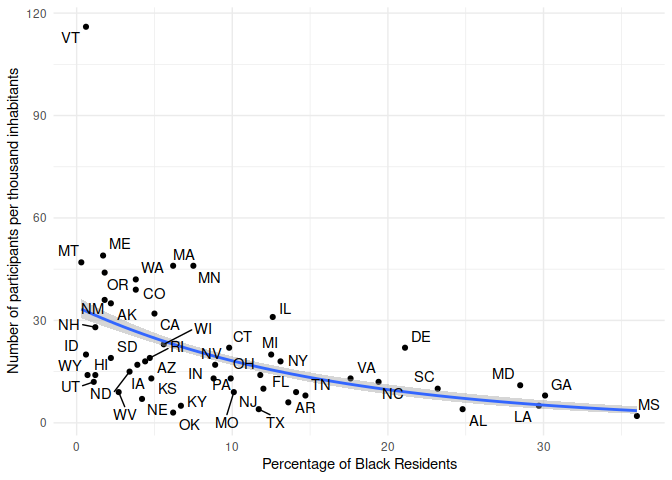
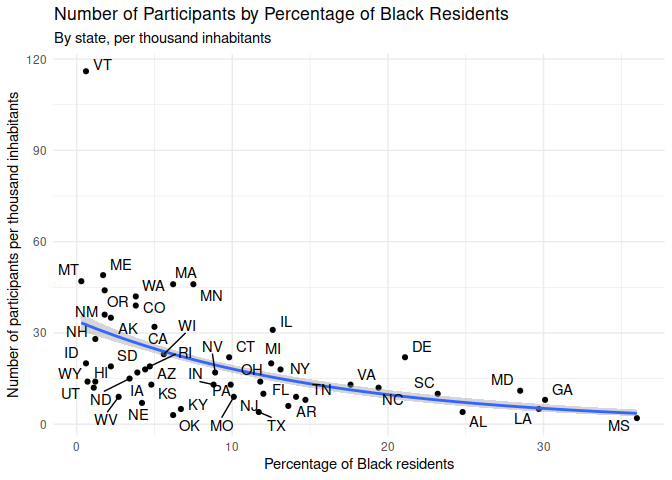
Fix labels and AMEs

diff --git a/README.md b/README.md
@@ -7,49 +7,49 @@ This project uses data from the Crowd Counting Consortium (CCC) to
 analyze protests against Trump in 2025 (from January 1st, 2025 to
 October 31st, 2025).
 
-## Protests over Time
+## Trends over Time
 
-![](README_files/figure-gfm/time-trend-1.png)<!-- -->
+### Figure 1
 
-## Bivariate Relationships
+![](README_files/figure-gfm/time-trend-events-1.png)<!-- -->
 
-### Support for Trump (%), 2024 presidential election
+### Figure 2
+
+![](README_files/figure-gfm/time-trend-part-1.png)<!-- -->
+
+### Figure 3
+
+![](README_files/figure-gfm/time-trend-violence-1.png)<!-- -->
+
+## Geography of the Protests: Bivariate Relationships
+
+### Figure 4
 
 ![](README_files/figure-gfm/trump-support-1.png)<!-- -->
 
-### Median Annual Household Income
+### Figure 5
 
 ![](README_files/figure-gfm/income-1.png)<!-- -->
 
-### Percentage of Black Residents
+### Figure 6
 
 ![](README_files/figure-gfm/black-1.png)<!-- -->
 
-### Percentage of Hispanic Residents
+### Figure 7
 
 ![](README_files/figure-gfm/hispanic-1.png)<!-- -->
 
-## Percentage of Noncitizen Residents
+### Figure 8
 
 ![](README_files/figure-gfm/non-citizens-1.png)<!-- -->
 
-## Governor Party
+### Figure 9
 
 ![](README_files/figure-gfm/gov-party-1.png)<!-- -->
 
-## Correlation Matrix
+## Geography of the Protests: Multivariate Analysis
 
-|  | n_part_pop | pct_trump | income | black | hispanic | non_citizens | republican_gov |
-|----|----|----|----|----|----|----|----|
-| n_part_pop | 1 | . | . | . | . | . | . |
-| pct_trump | -.57 | 1 | . | . | . | . | . |
-| income | .33 | -.70 | 1 | . | . | . | . |
-| black | -.44 | .02 | -.24 | 1 | . | . | . |
-| hispanic | -.04 | -.29 | .26 | -.11 | 1 | . | . |
-| non_citizens | -.11 | -.50 | .56 | .08 | .77 | 1 | . |
-| republican_gov | -.22 | .66 | -.41 | .11 | -.29 | -.40 | 1 |
-
-## Multivariate Analysis
+### Figure 10
 
 Results of a count model. Coefficients below zero indicate a negative
 effect.
